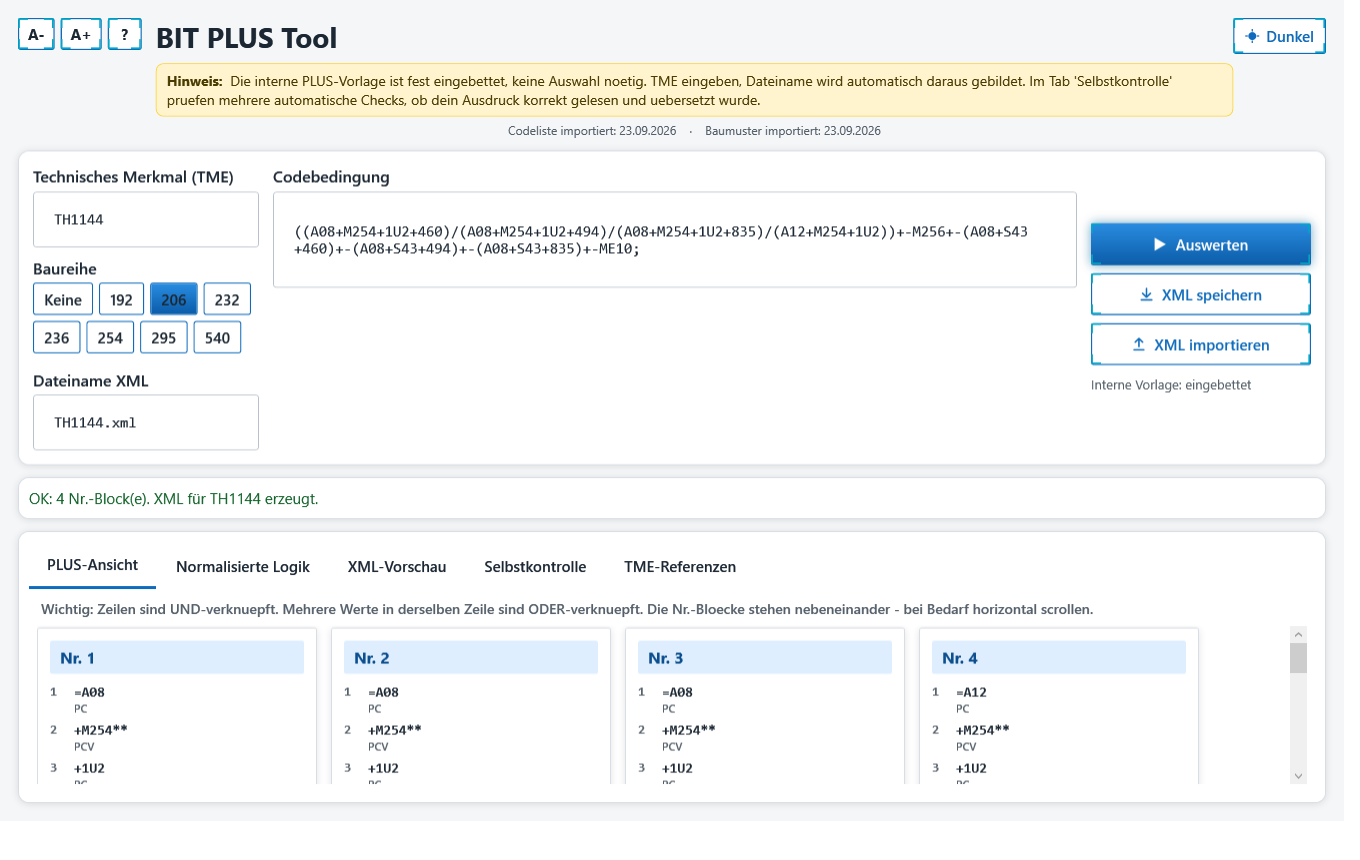
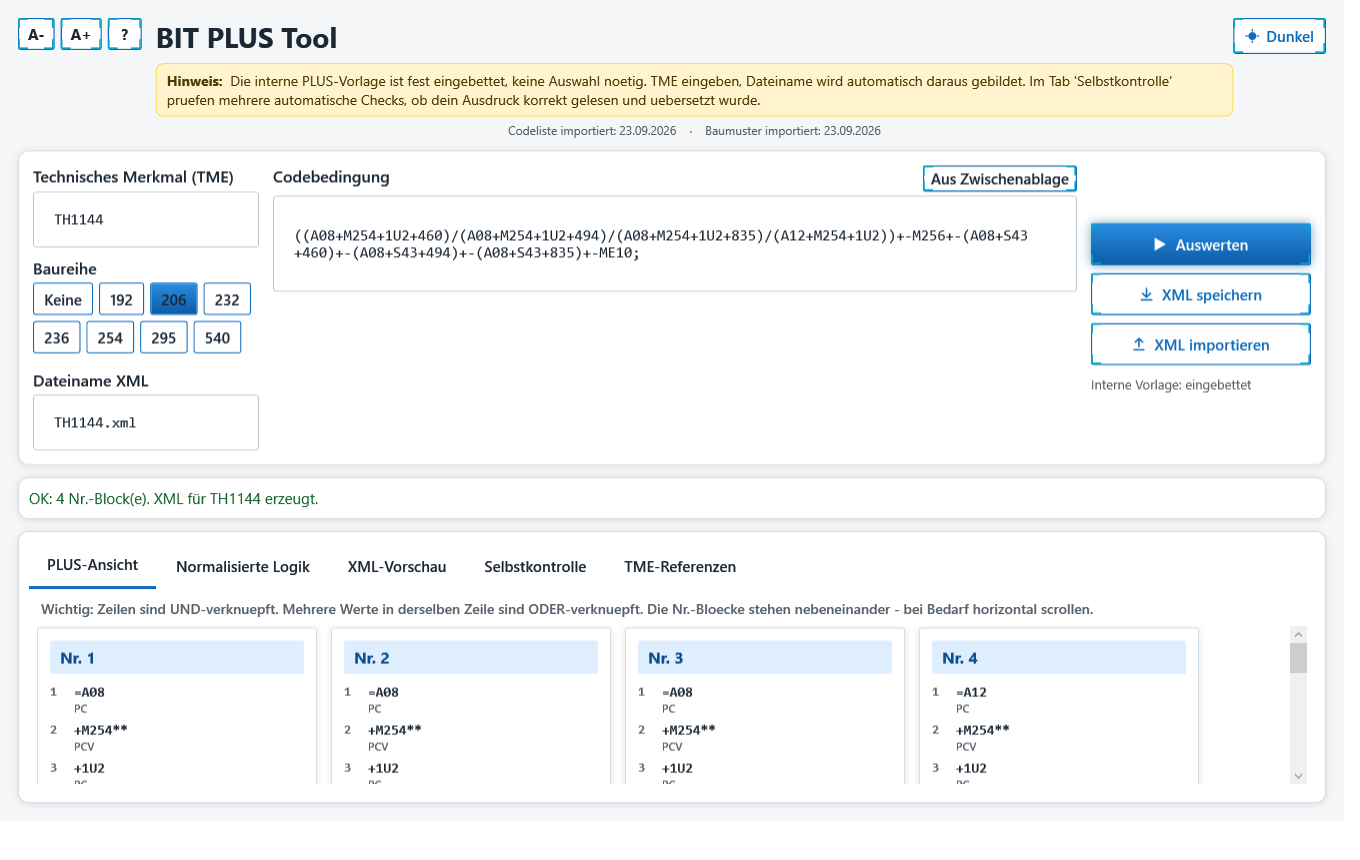
Update BitPlusTool v2026.924.653.0

Changed region(s): [[0.2162, 0.1814, 0.8029, 0.3023]]

diff --git a/BitPlusTool/MainWindow.xaml b/BitPlusTool/MainWindow.xaml
@@ -86,9 +86,20 @@
                 </StackPanel>
 
                 <StackPanel Grid.Column="1" Margin="0,0,14,0">
-                    <TextBlock Text="Codebedingung" Style="{StaticResource SectionLabelStyle}"/>
-                    <TextBox x:Name="CodeBox" Height="96" AcceptsReturn="True" TextWrapping="Wrap" VerticalScrollBarVisibility="Auto"
+                    <Grid>
+                        <Grid.ColumnDefinitions>
+                            <ColumnDefinition Width="*"/>
+                            <ColumnDefinition Width="Auto"/>
+                        </Grid.ColumnDefinitions>
+                        <TextBlock Grid.Column="0" Text="Codebedingung" Style="{StaticResource SectionLabelStyle}" VerticalAlignment="Center"/>
+                        <Button x:Name="PasteButton" Grid.Column="1" Style="{StaticResource SecondaryButton}" Padding="8,3" FontSize="12"
+                                Click="PasteButton_Click" ToolTip="Fuegt den aktuellen Inhalt der Windows-Zwischenablage hier ein">
+                            <TextBlock Text="Aus Zwischenablage"/>
+                        </Button>
+                    </Grid>
+                    <TextBox x:Name="CodeBox" Height="96" AcceptsReturn="True" TextWrapping="Wrap" VerticalScrollBarVisibility="Auto" Margin="0,4,0,0"
                              Text="(M256+M30+M016+M005-M010)/(M139+M20+M014+M005+ME10)/(M177+M40+M014+M005+M010);"/>
+                    <TextBlock x:Name="PasteStandText" Foreground="{DynamicResource TextMutedBrush}" FontSize="12" Margin="0,4,0,0" TextWrapping="Wrap"/>
                 </StackPanel>
 
                 <StackPanel Grid.Column="2" VerticalAlignment="Center">

diff --git a/BitPlusTool/MainWindow.xaml.cs b/BitPlusTool/MainWindow.xaml.cs
@@ -80,6 +80,19 @@ public partial class MainWindow : Window
 
     private void RunButton_Click(object sender, RoutedEventArgs e) => Run();
 
+    private void PasteButton_Click(object sender, RoutedEventArgs e)
+    {
+        if (!Clipboard.ContainsText())
+        {
+            MessageBox.Show(this, "In der Zwischenablage steht aktuell kein Text.", "Zwischenablage leer", MessageBoxButton.OK, MessageBoxImage.Information);
+            return;
+        }
+
+        CodeBox.Text = Clipboard.GetText().Trim();
+        PasteStandText.Text = $"Eingefuegt aus Zwischenablage: {DateTime.Now:dd.MM.yyyy HH:mm:ss}";
+        Run();
+    }
+
     private void HelpButton_Click(object sender, RoutedEventArgs e)
     {
         new HelpWindow { Owner = this }.ShowDialog();
